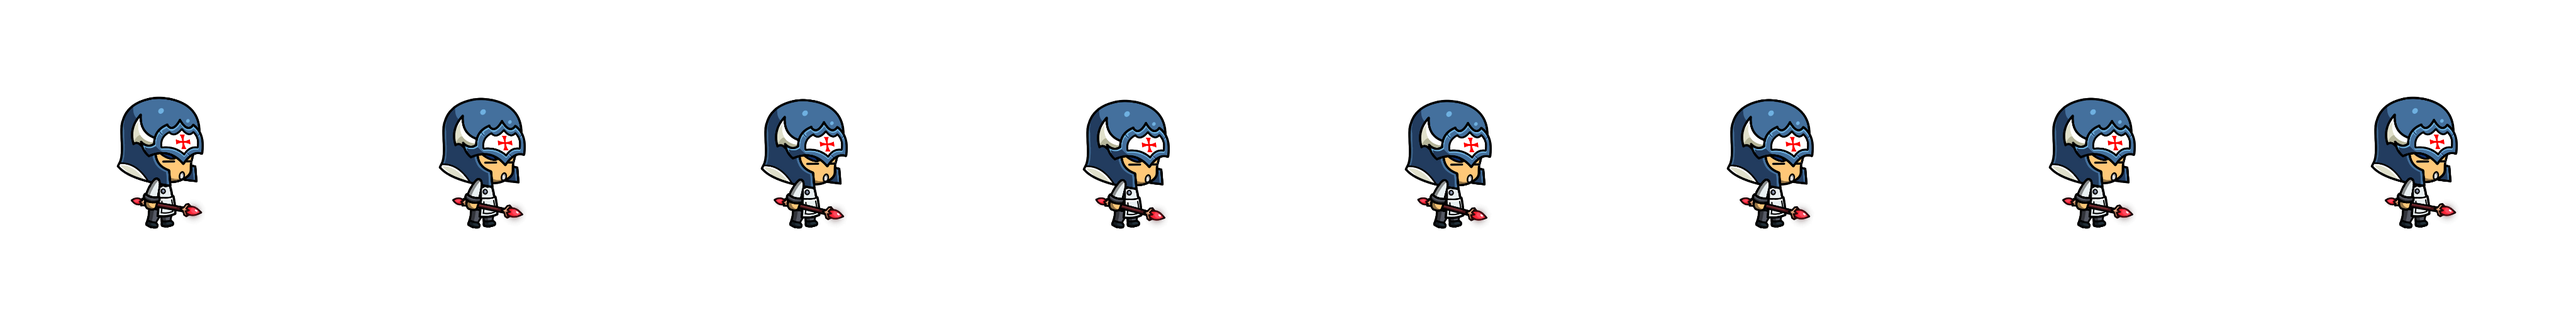
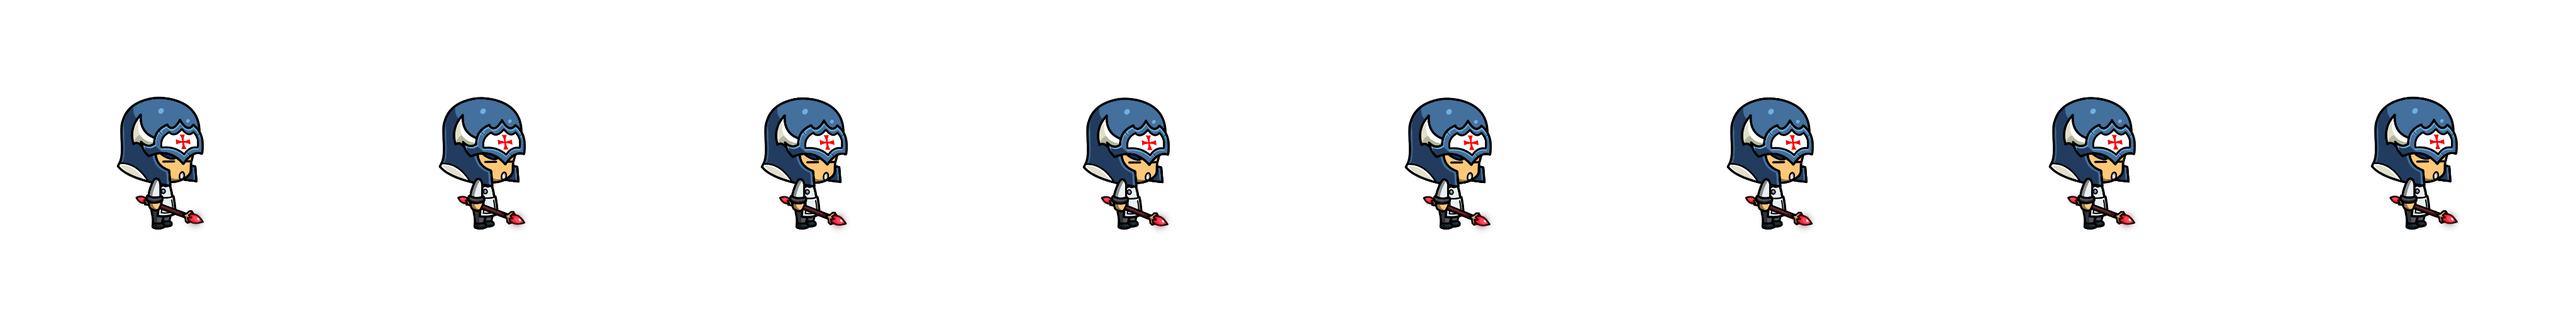
Fix: swap idle/walk rows - row0=walk, row1=idle (verified visually)

diff --git a/js/data.js b/js/data.js
@@ -1,5 +1,5 @@
 // ===== CHARACTER SVGs =====
-const SPRITE_VER='?v=10';
+const SPRITE_VER='?v=11';
 const CHAR_SVG={
 전사:{type:'sprite',frames:8,
   idle:{src:'img/warrior-idle.png',w:128,h:128,tw:1024},
